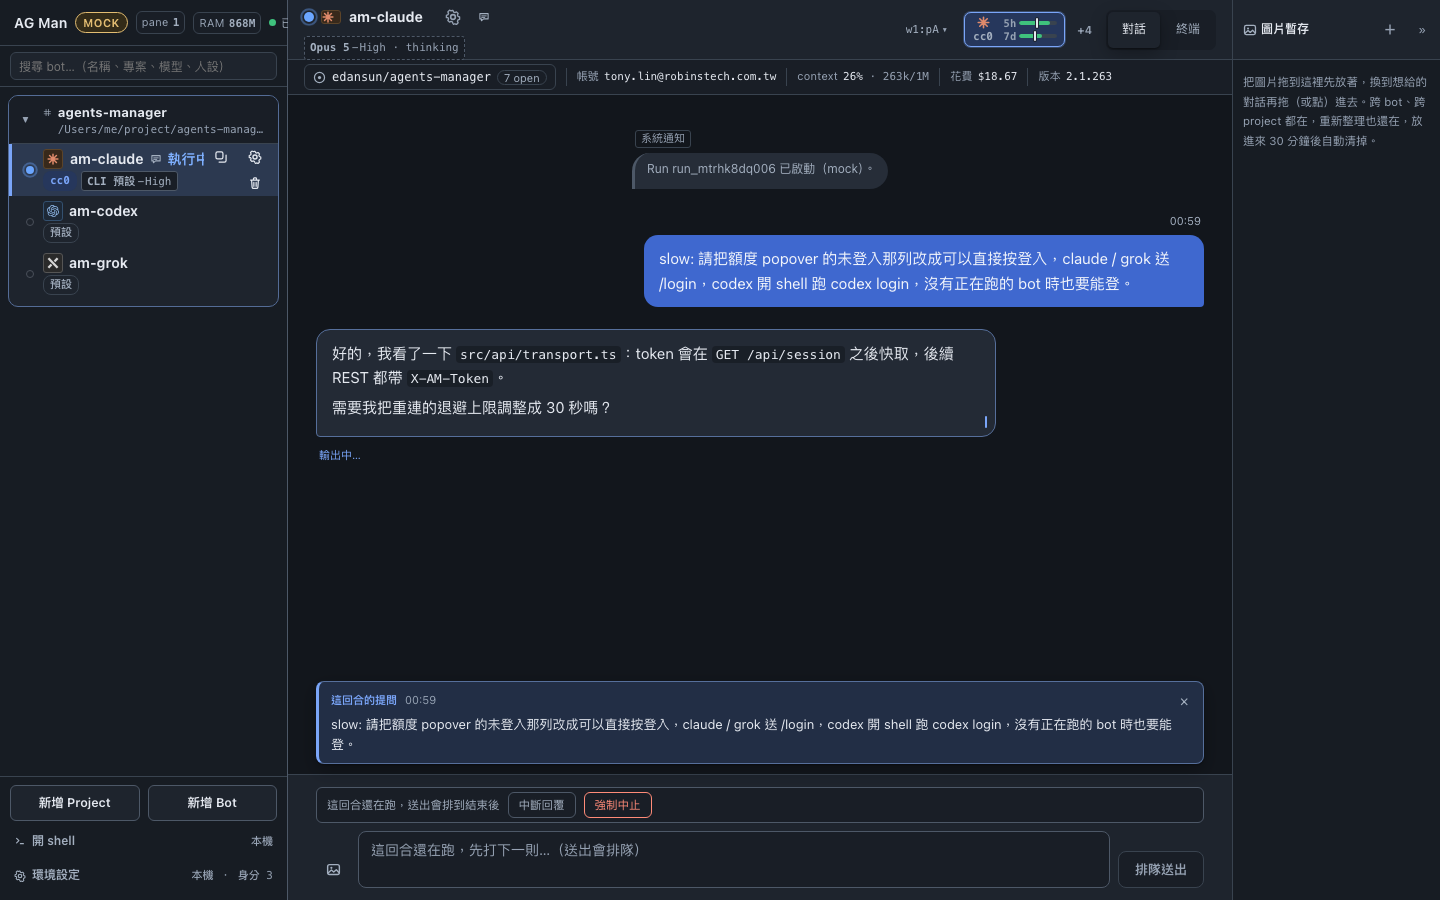
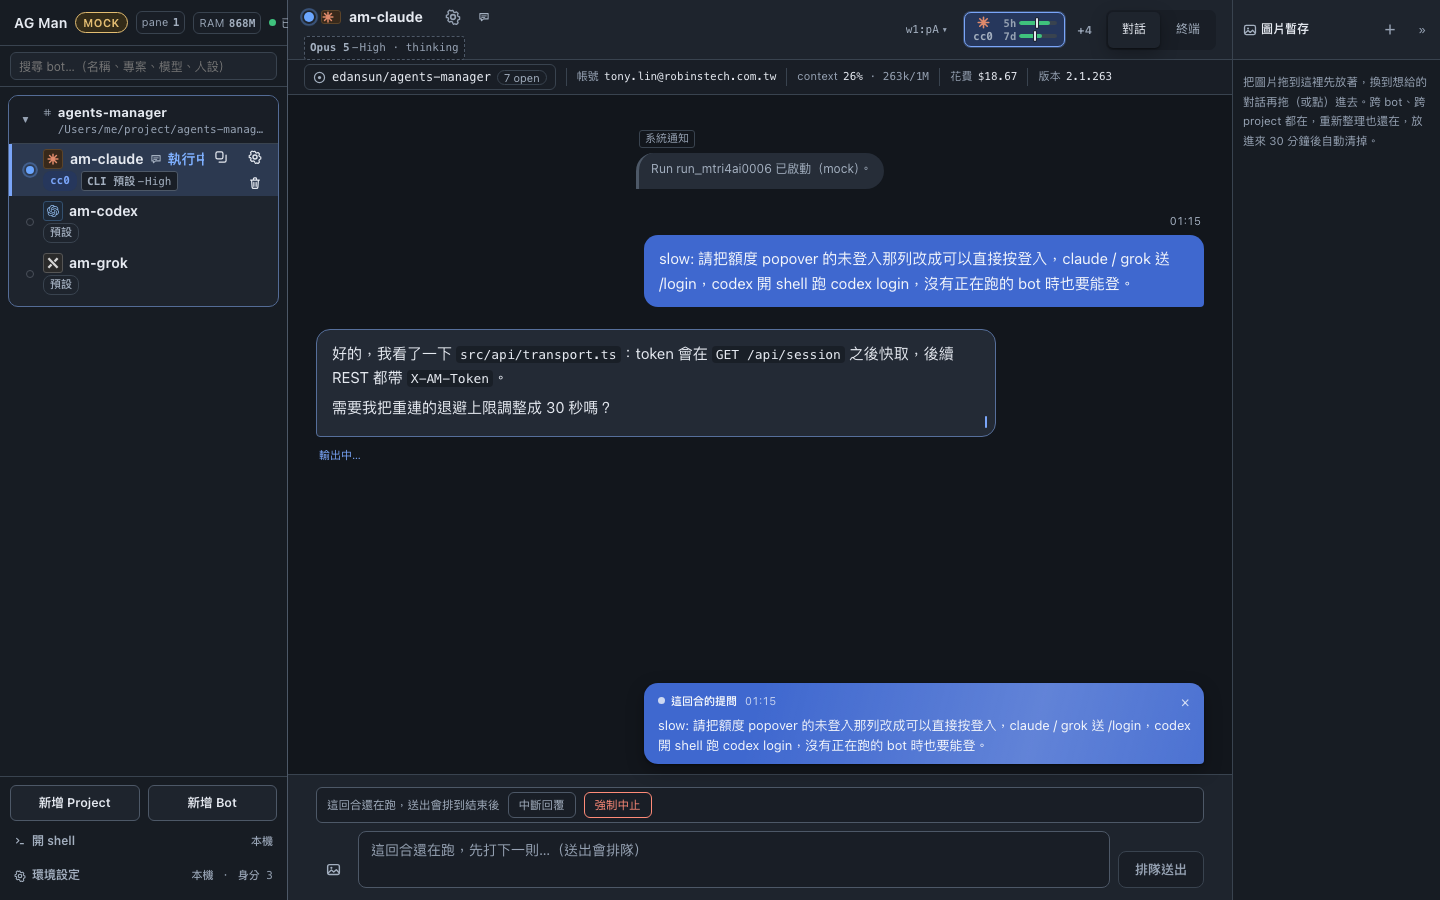
feat(web): 「這回合的提問」浮窗改成靠右的使用者氣泡樣式，帶進行中動效
置中的卡片讀起來像系統通知；它其實是「剛送出去的那則」。改用使用者氣泡的底色、
圓角與對齊，標籤前加一顆呼吸的點、氣泡上每 2.4 秒掃一道亮光，表達這題還在跑。
reduced-motion 時關掉掃光。

Claude-Session: https://claude.ai/code/session_01UfZHCMVphfjpugodS8r7yQ

Changed region(s): [[0.2188, 0.7467, 0.8438, 0.8711], [0.5312, 0.1556, 0.5938, 0.2178], [0.4375, 0.1244, 0.4688, 0.2178]]

diff --git a/web/src/styles.css b/web/src/styles.css
@@ -2973,19 +2973,56 @@ button:disabled {
   padding: 0 28px 10px;
   box-sizing: border-box;
   pointer-events: none;
+  /* 靠右、跟使用者氣泡同寬（2026-09-08）：它就是「剛送出去的那則」，長得像使用者氣泡
+     才讀得出「這題還在跑」；置中的卡片看起來像系統通知。 */
+  display: flex;
+  justify-content: flex-end;
 }
 
 .lastq {
   pointer-events: auto;
+  position: relative;
+  overflow: hidden;
   display: flex;
   flex-direction: column;
   gap: 3px;
-  padding: 7px 8px 9px 12px;
-  border: 1px solid color-mix(in srgb, var(--accent) 45%, var(--border));
-  border-left: 3px solid var(--accent);
-  border-radius: var(--radius);
-  background: color-mix(in srgb, var(--accent-soft) 50%, var(--bg-panel));
+  max-width: min(560px, 82%);
+  min-width: 260px;
+  padding: 7px 8px 9px 14px;
+  border: 0;
+  border-radius: 14px;
+  border-bottom-right-radius: 4px;
+  background: var(--bubble-user);
+  color: var(--bubble-user-text);
   box-shadow: var(--shadow);
+}
+
+/* 「進行中」的感覺：一道亮光每 2.4 秒從左掃到右，像訊息還在送、還在等回覆。
+   只掃光、不動位置，才不會跟底下正在長的輸出互搶注意力。 */
+.lastq::after {
+  content: '';
+  position: absolute;
+  inset: 0;
+  pointer-events: none;
+  background: linear-gradient(105deg, transparent 30%, rgb(255 255 255 / 0.18) 50%, transparent 70%);
+  background-size: 250% 100%;
+  animation: lastq-sweep 2.4s ease-in-out infinite;
+}
+
+@keyframes lastq-sweep {
+  0% {
+    background-position: 120% 0;
+  }
+
+  100% {
+    background-position: -120% 0;
+  }
+}
+
+@media (prefers-reduced-motion: reduce) {
+  .lastq::after {
+    animation: none;
+  }
 }
 
 .lastq-head {
@@ -2996,15 +3033,28 @@ button:disabled {
 }
 
 .lastq-tag {
+  display: inline-flex;
+  align-items: center;
+  gap: 6px;
   font-size: 11px;
   font-weight: 700;
-  color: var(--accent-ink);
+  color: var(--bubble-user-text);
   white-space: nowrap;
+}
+
+/* 標籤前一顆會呼吸的點：跟側欄「執行中」的燈同一個語言。 */
+.lastq-tag::before {
+  content: '';
+  width: 7px;
+  height: 7px;
+  border-radius: 50%;
+  background: currentColor;
+  animation: blink 1.2s ease-in-out infinite;
 }
 
 .lastq-time {
   font-size: 11px;
-  color: var(--text-faint);
+  color: rgb(255 255 255 / 0.7);
   font-variant-numeric: tabular-nums;
 }
 
@@ -3016,7 +3066,7 @@ button:disabled {
 
 .lastq-hint {
   font-size: 11px;
-  color: var(--text-faint);
+  color: rgb(255 255 255 / 0.7);
   white-space: nowrap;
   overflow: hidden;
   text-overflow: ellipsis;
@@ -3031,14 +3081,14 @@ button:disabled {
   border: 0;
   border-radius: 6px;
   background: none;
-  color: var(--text-dim);
+  color: rgb(255 255 255 / 0.75);
   font-size: 15px;
   line-height: 1;
 }
 
 .lastq-x:hover {
-  background: var(--bg-hover);
-  color: var(--text);
+  background: rgb(255 255 255 / 0.18);
+  color: #fff;
 }
 
 /*
@@ -3059,13 +3109,14 @@ button:disabled {
   font: inherit;
   font-size: 13px;
   line-height: 20px;
-  color: var(--text);
+  color: var(--bubble-user-text);
   white-space: pre-wrap;
   overflow-wrap: anywhere;
 }
 
 .lastq-body:hover {
-  color: var(--accent-ink);
+  text-decoration: underline;
+  text-underline-offset: 3px;
 }
 
 .lastq.open .lastq-body {

diff --git a/docs/UI-DECISIONS.md b/docs/UI-DECISIONS.md
@@ -262,3 +262,7 @@
 - **搜尋中不能拖。** 搜尋時清單是過濾過的、沒命中的專案被藏起來，那時候拖出來的順序沒有意義。
 - **鍵盤 ↑/↓ 換 bot 走的也是這個順序**（`orderedBotIds()` 改吃 `orderedProjects()`）。
 
+- **（2026-09-08 補）長得像使用者氣泡、靠右、會呼吸。** 底色用 `--bubble-user`、右下角 4px 的角、
+  靠右對齊、寬度同使用者氣泡：它就是「剛送出去的那則」，置中的卡片讀起來像系統通知。
+  「進行中」的感覺用兩個小動作：標籤前一顆呼吸的點（跟側欄「執行中」同一語言）、
+  每 2.4 秒一道從左掃到右的亮光；只掃光不動位置，`prefers-reduced-motion` 時關掉。
